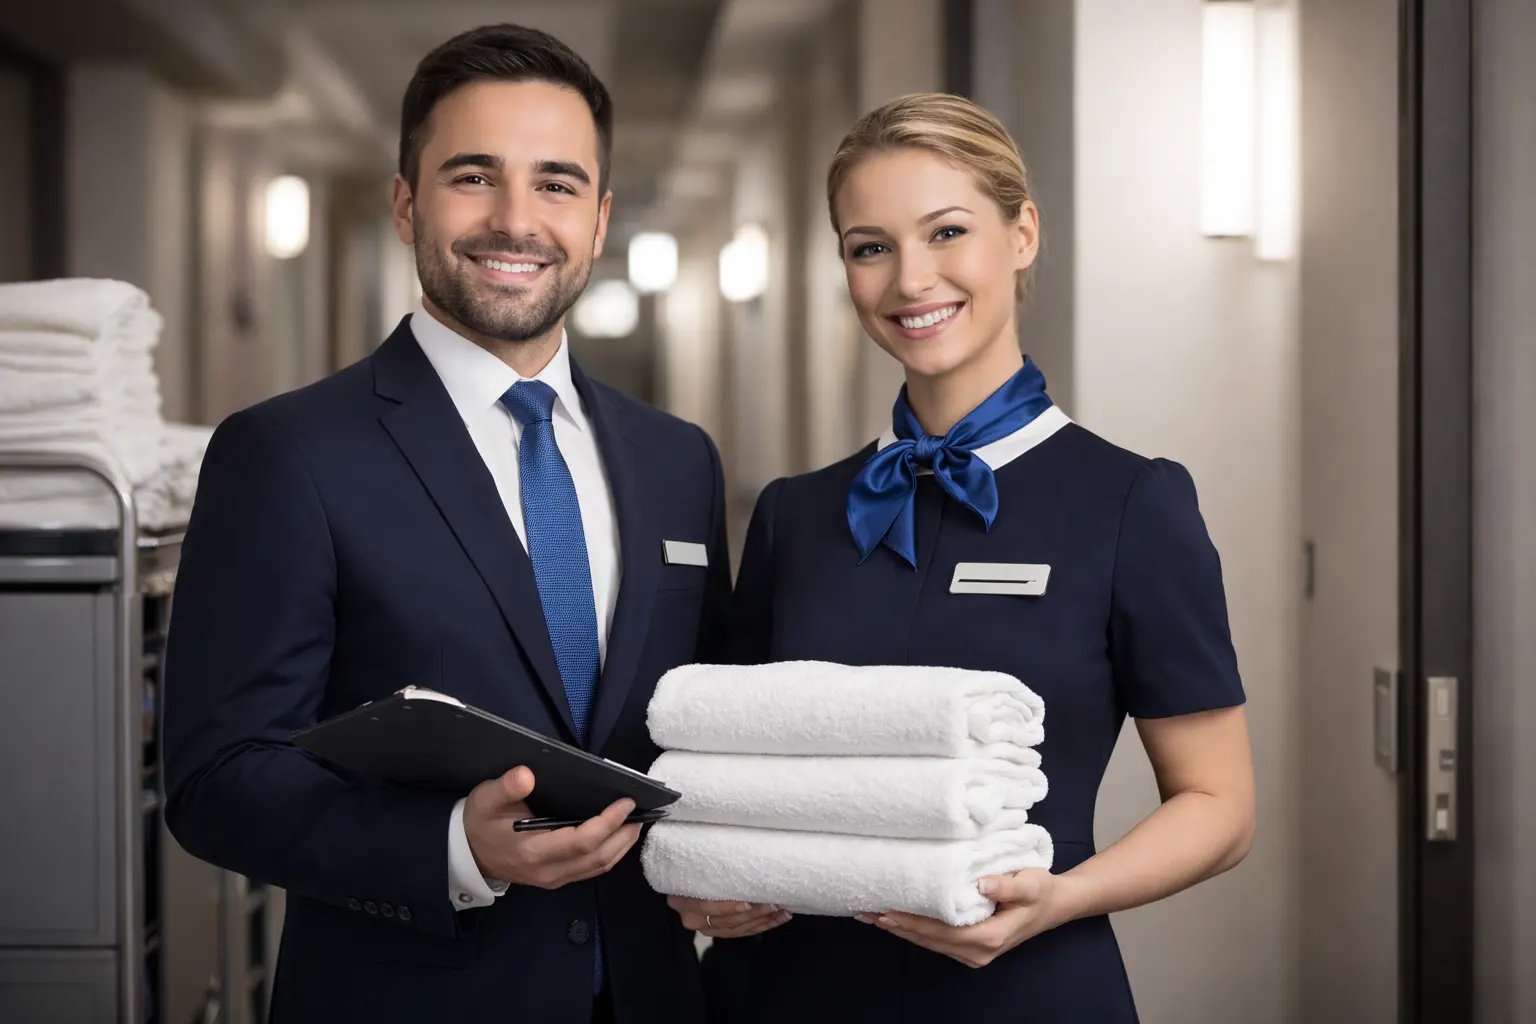
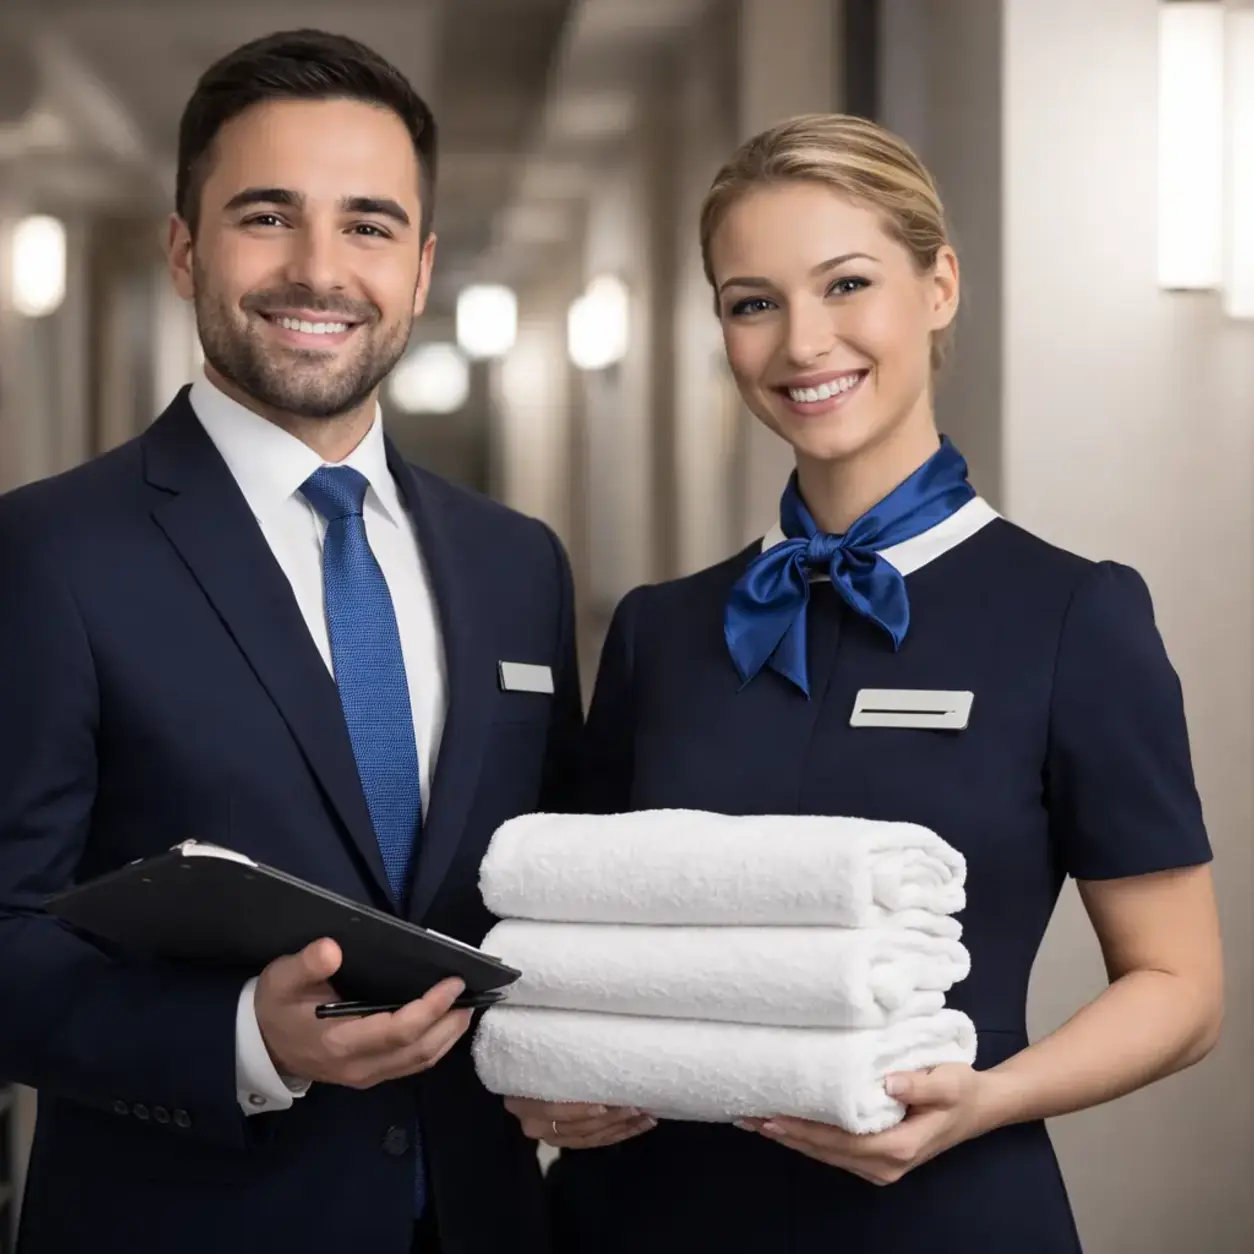
Ajout de plusieurs métiers

diff --git a/app/assets/stylesheets/pages/_home.scss b/app/assets/stylesheets/pages/_home.scss
@@ -619,6 +619,8 @@ section + h2,
     flex: 0 0 calc(33.333% - 20px);
     max-width: calc(33.333% - 20px);
     min-width: 300px;
+    display: flex;
+    flex-direction: column;
 
     @media (max-width: 768px) {
       flex: 0 0 100%;
@@ -626,27 +628,59 @@ section + h2,
       min-width: 0;
     }
 
-    img {
+    .job-image-container {
       width: 100%;
       height: 300px;
-      object-fit: cover;
-      object-position: center;
+      overflow: hidden;
 
-      // Ajustements spécifiques par image
-      &.job-gouvernant {
-        object-position: center center;
+      a {
+        display: block;
+        width: 100%;
+        height: 100%;
       }
 
-      &.job-linger {
-        object-position: center 20%;
-      }
+      img {
+        width: 100%;
+        height: 100%;
+        display: block;
+        object-fit: cover;
+        object-position: center;
 
-      &.job-femme-menage {
-        object-position: center 25%;
-      }
+        &.job-gouvernant {
+          object-position: center 18%;
+          transform: scale(0.94);
+          transform-origin: center center;
+        }
 
-      &.job-cafetier {
-        object-position: center center;
+        &.job-linger {
+          object-position: center 18%;
+          transform: scale(0.94);
+          transform-origin: center center;
+        }
+
+        &.job-femme-menage {
+          object-position: center 18%;
+          transform: scale(0.94);
+          transform-origin: center center;
+        }
+
+        &.job-cafetier {
+          object-position: center 18%;
+          transform: scale(0.94);
+          transform-origin: center center;
+        }
+
+        &.job-commis-cuisine {
+          object-position: center 18%;
+          transform: scale(0.94);
+          transform-origin: center center;
+        }
+
+        &.job-receptionniste {
+          object-position: center 18%;
+          transform: scale(0.94);
+          transform-origin: center center;
+        }
       }
     }
   }

diff --git a/app/assets/stylesheets/pages/_jobs.scss b/app/assets/stylesheets/pages/_jobs.scss
@@ -95,10 +95,47 @@
         object-fit: cover;
         object-position: center;
         transition: transform 0.5s ease;
+
+        // Ajustements spécifiques par image
+        &.job-gouvernant {
+          object-position: center 18%;
+          transform: scale(0.94);
+          transform-origin: center center;
+        }
+
+        &.job-linger {
+          object-position: center 18%;
+          transform: scale(0.94);
+          transform-origin: center center;
+        }
+
+        &.job-femme-menage {
+          object-position: center 18%;
+          transform: scale(0.94);
+          transform-origin: center center;
+        }
+
+        &.job-cafetier {
+          object-position: center 18%;
+          transform: scale(0.94);
+          transform-origin: center center;
+        }
+
+        &.job-commis-cuisine {
+          object-position: center 18%;
+          transform: scale(0.94);
+          transform-origin: center center;
+        }
+
+        &.job-receptionniste {
+          object-position: center 18%;
+          transform: scale(0.94);
+          transform-origin: center center;
+        }
       }
 
       &:hover img {
-        transform: scale(1.08);
+        transform: scale(1.02);
       }
     }
   }

diff --git a/app/assets/config/manifest.js b/app/assets/config/manifest.js
@@ -1,4 +1,5 @@
 //= link_tree ../images
 //= link_directory ../stylesheets .css
+//= link application.css
 //= link_tree ../../javascript .js
 //= link_tree ../../../vendor/javascript .js

diff --git a/app/controllers/pages_controller.rb b/app/controllers/pages_controller.rb
@@ -3,8 +3,8 @@ class PagesController < ApplicationController
     @meta_title = "Nettoyage professionnel & intérim hôtelier"
     @meta_description = "STAFOTEL accompagne hôtels, bureaux et copropriétés avec des services de nettoyage professionnel et des solutions d'intérim hôtelier fiables et réactives."
 
-    @jobs = Job.limit(4).to_a
-    @job1, @job2, @job3, @job4 = @jobs
+    @jobs = Job.limit(6).to_a
+    @job1, @job2, @job3, @job4, @job5, @job6 = @jobs
     @services = Service.all
     @tips = Tip.limit(6)
   end

diff --git a/db/seeds.rb b/db/seeds.rb
@@ -26,6 +26,14 @@ jobs_data = [
   {
     title: "Cafetier(ère)",
     description: "Service et préparation de boissons au bar/café. Expérience souhaitée."
+  },
+  {
+    title: "Commis de cuisine",
+    description: "Préparation, mise en place et assistance en cuisine. Rigueur, rapidité et esprit d'équipe requis."
+  },
+  {
+    title: "Réceptionniste",
+    description: "Accueil des clients, gestion des réservations et coordination avec les équipes. Professionnalisme et courtoisie requis."
   }
 ]
 
